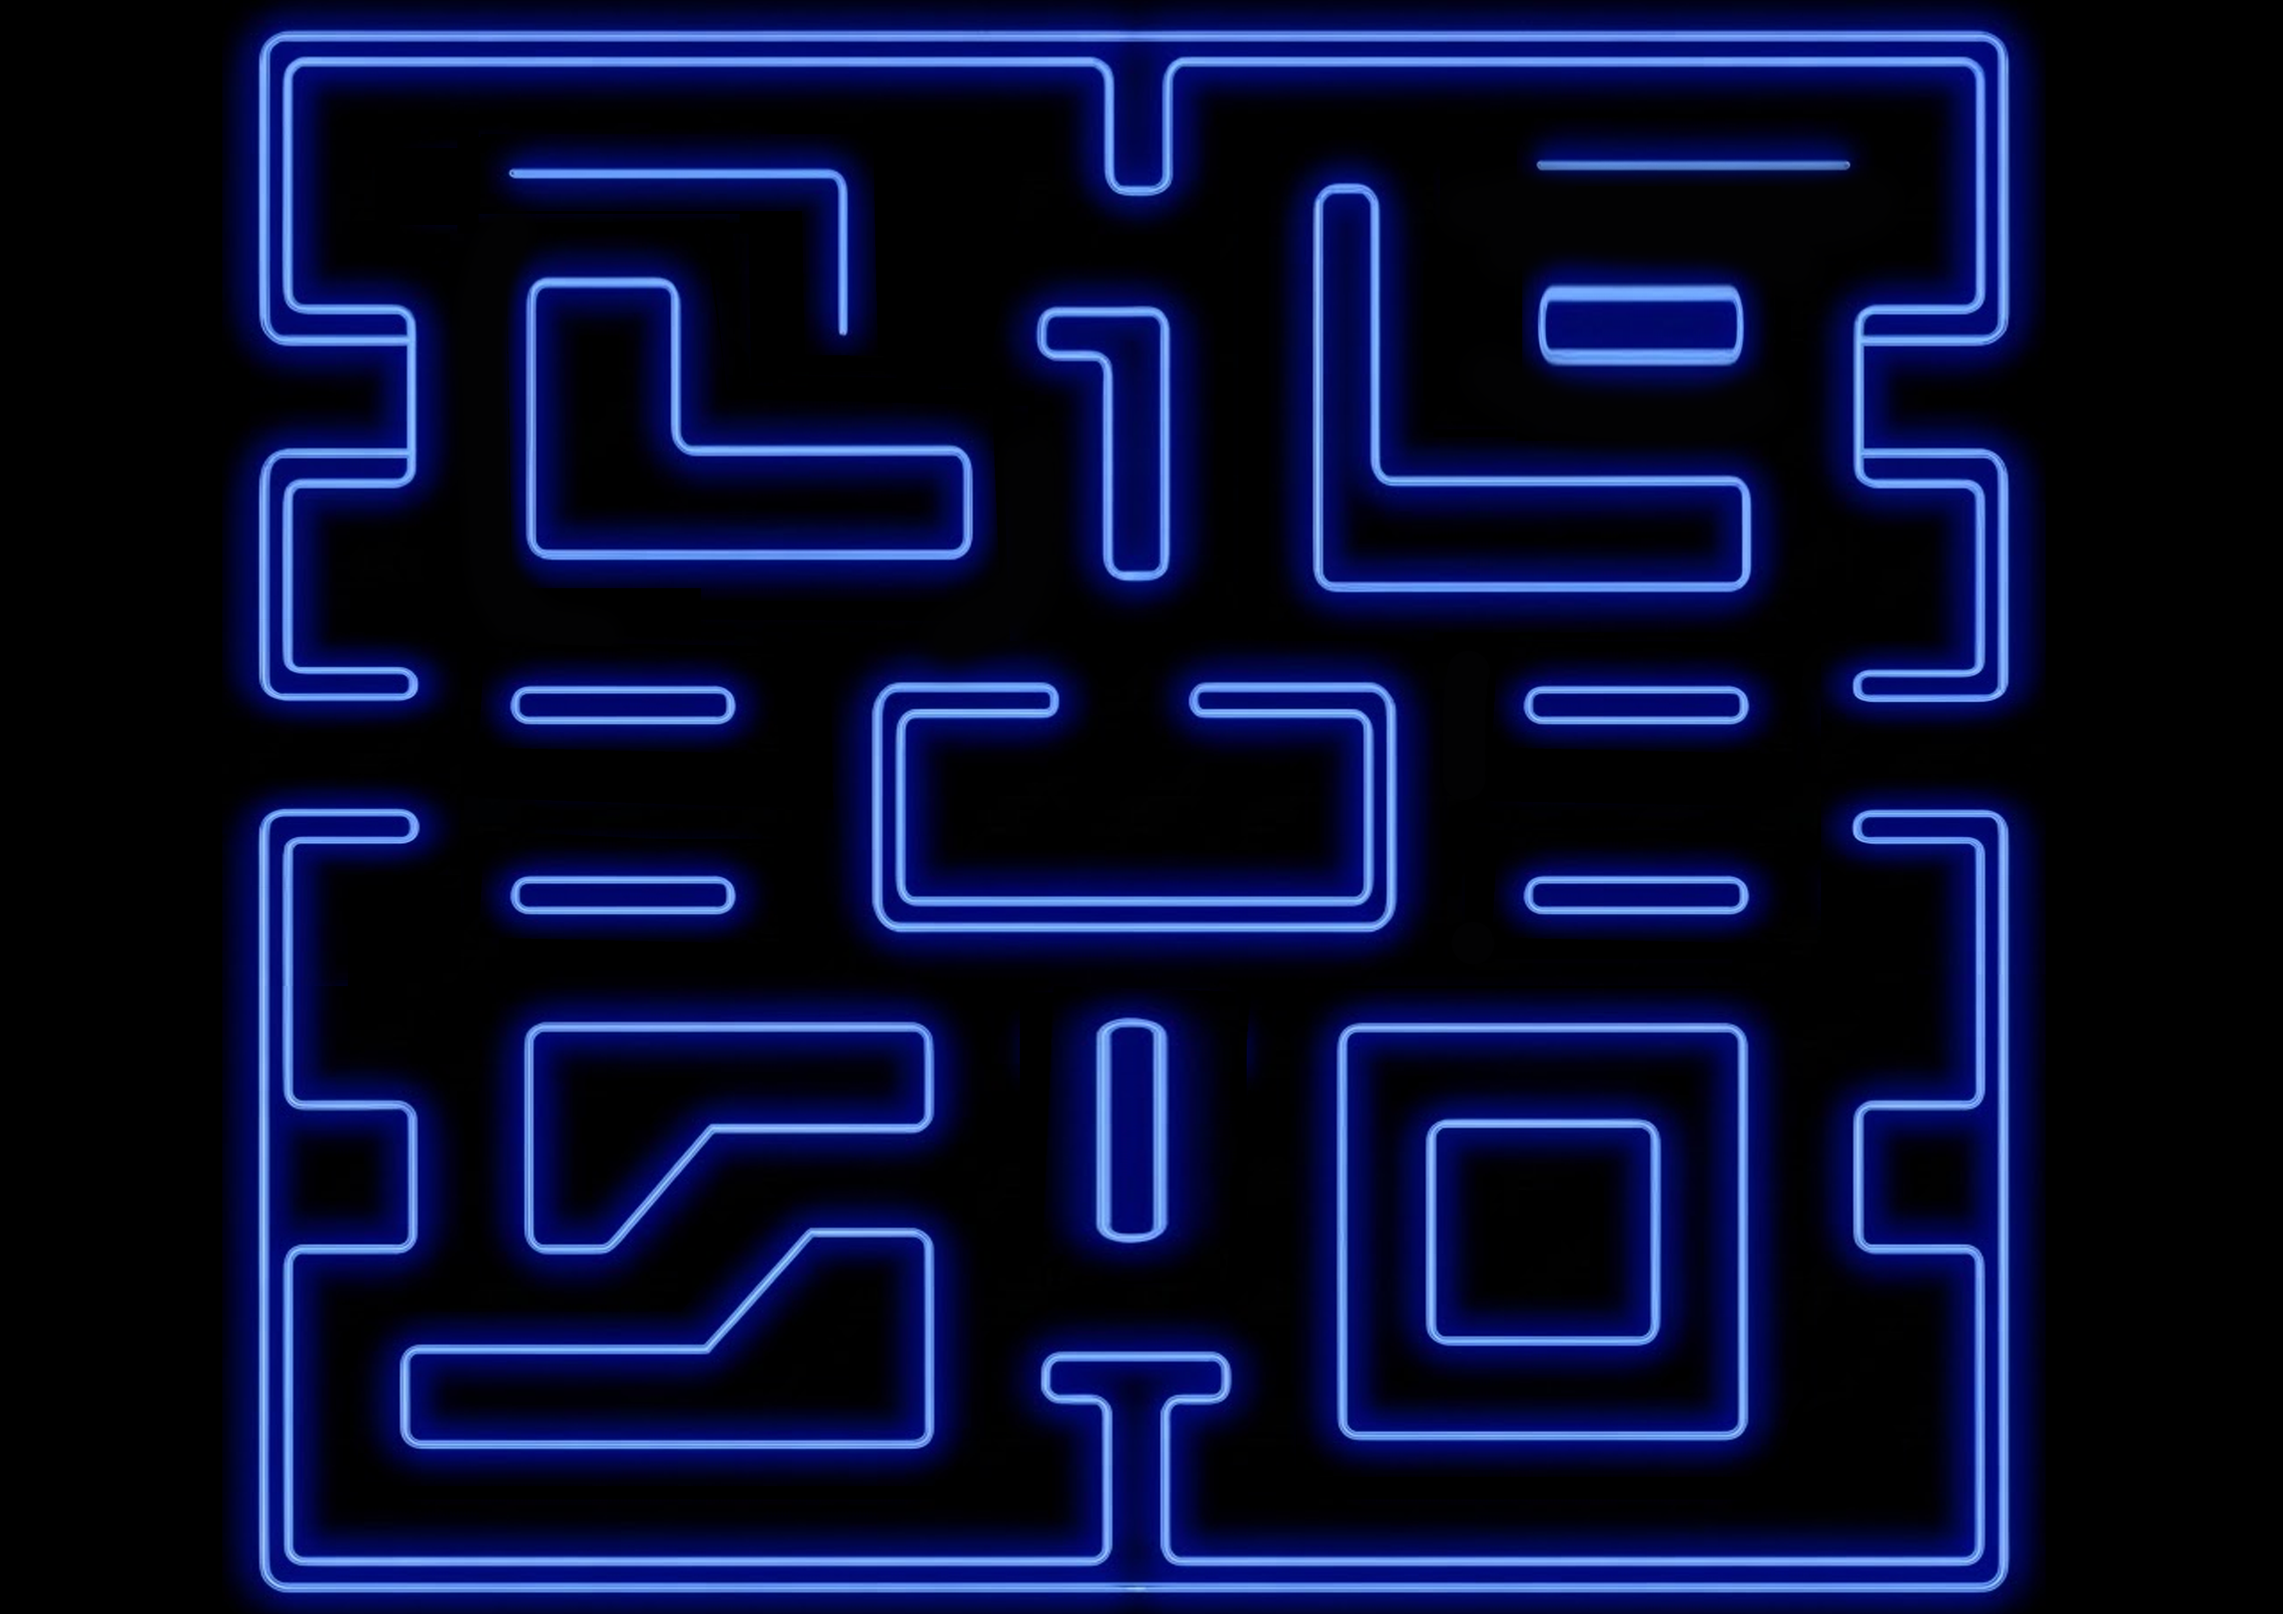
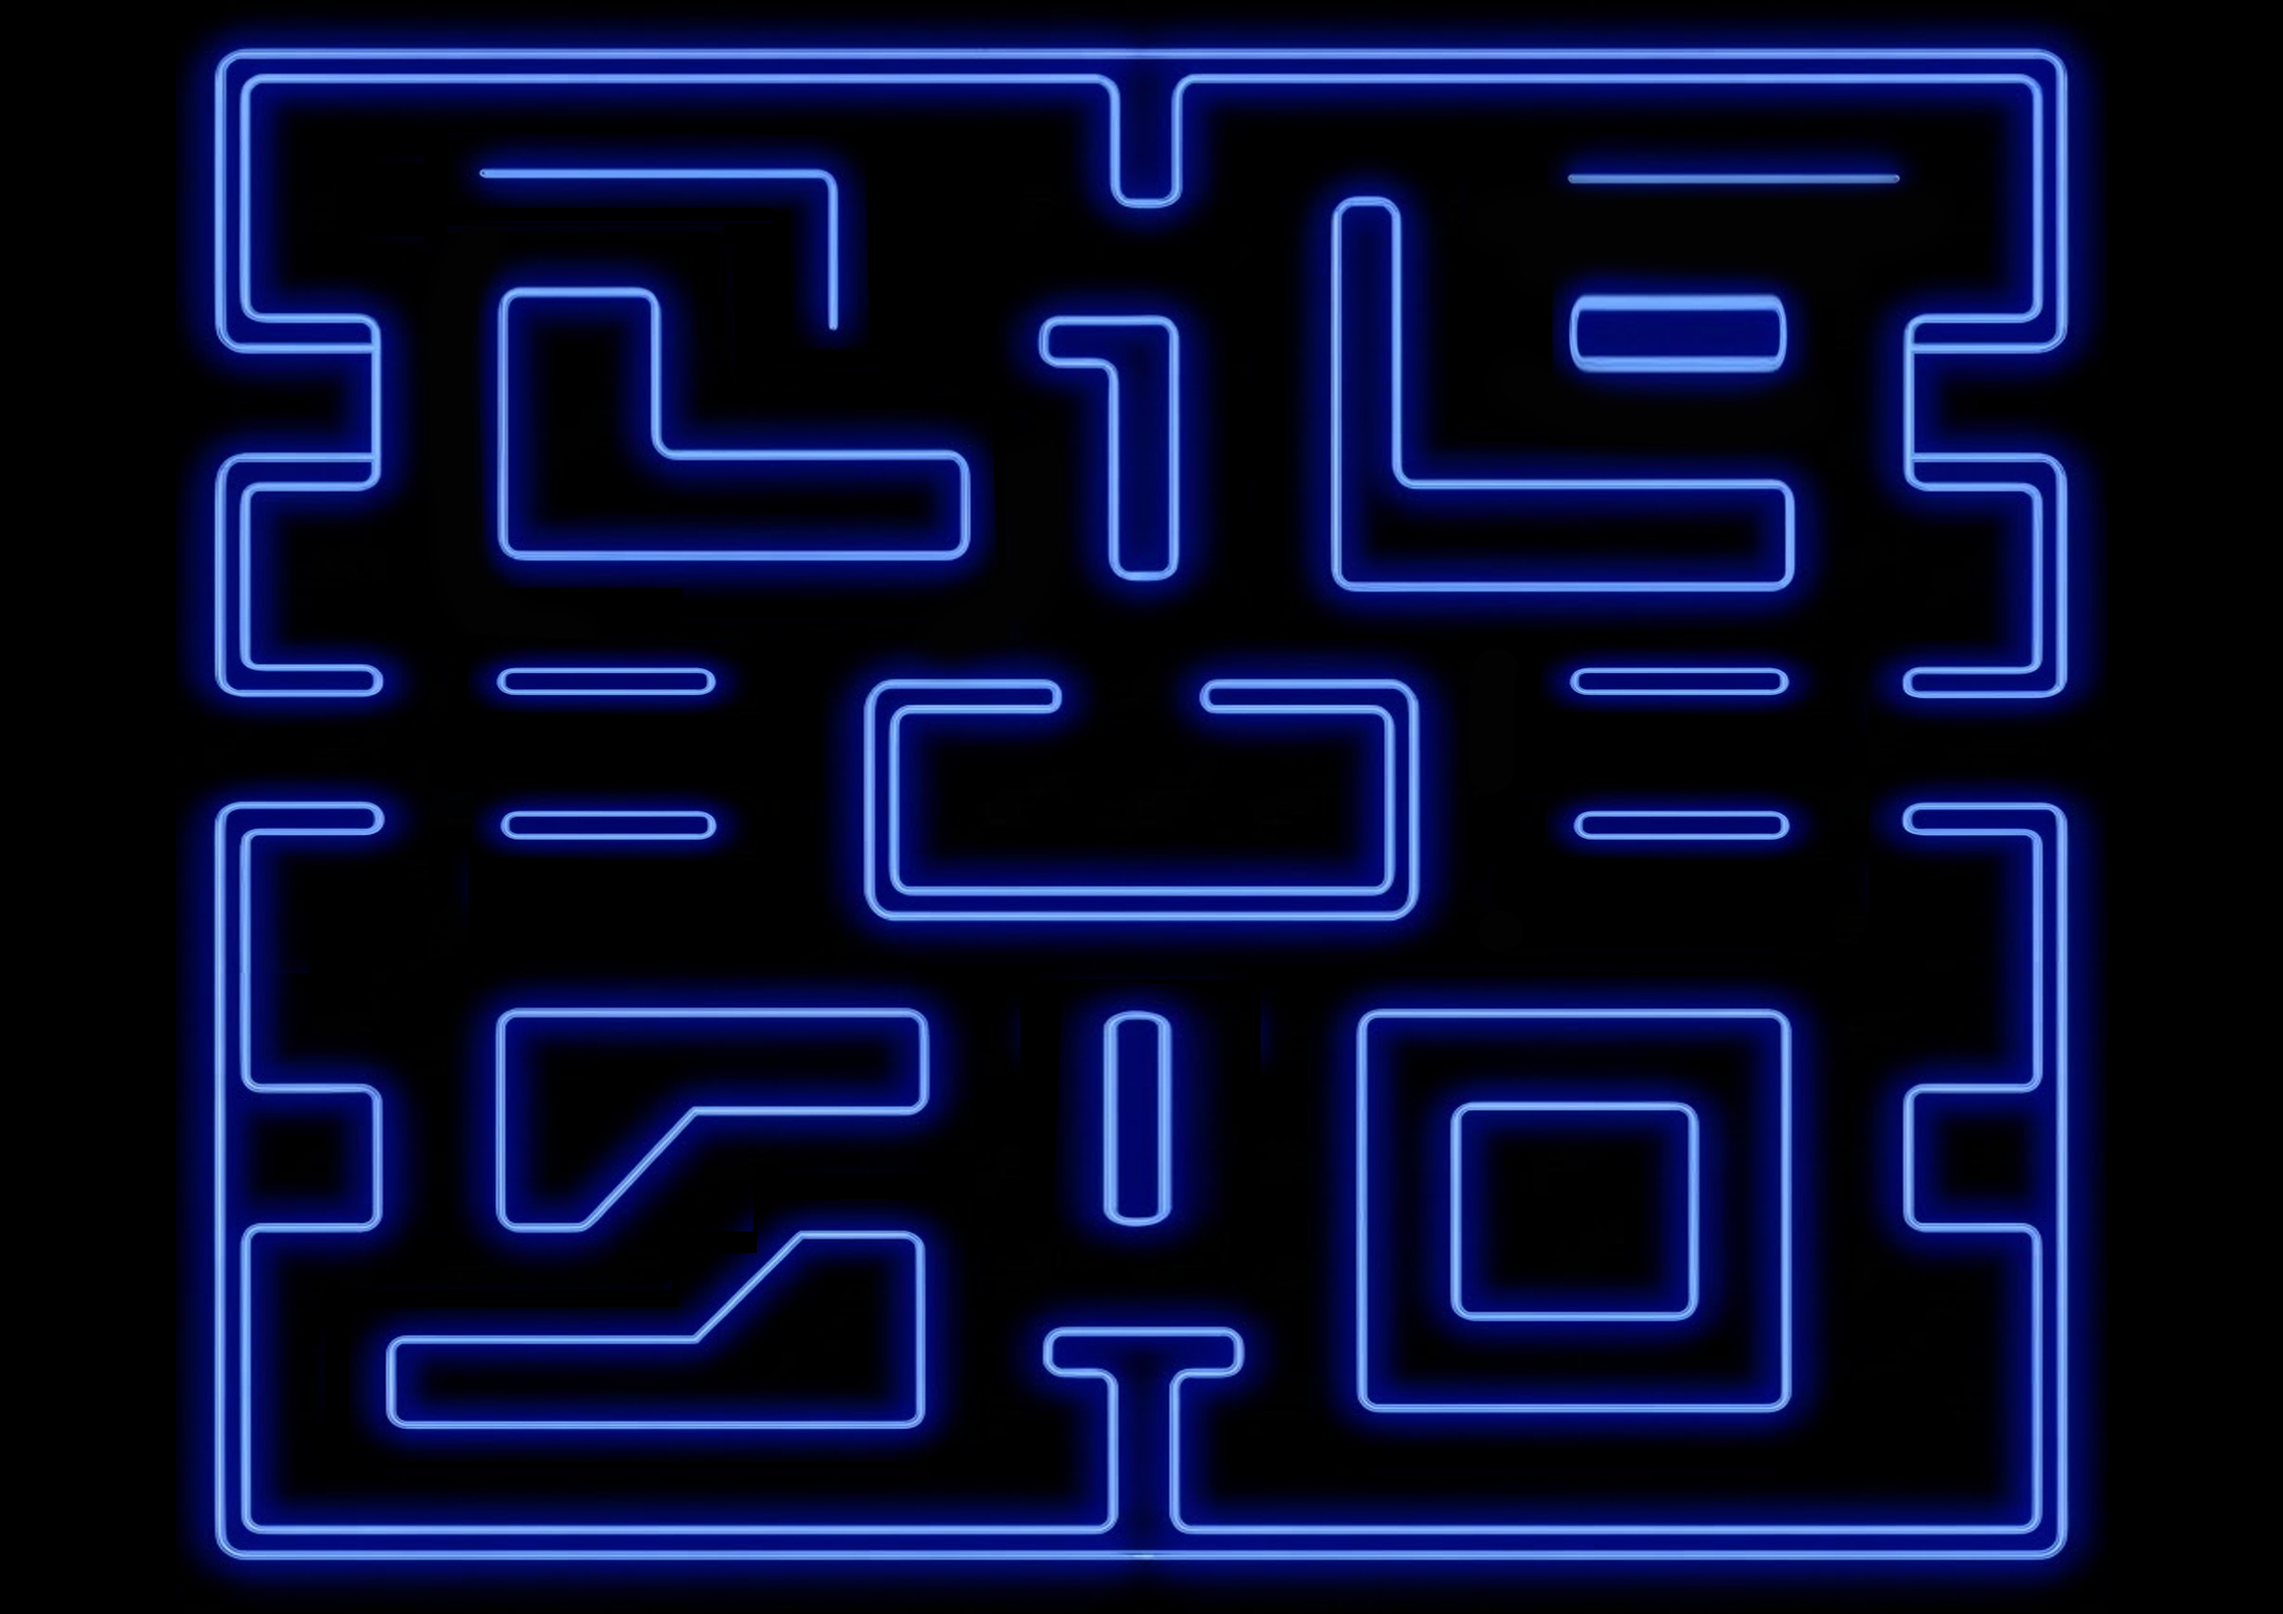
fix(pacman): re-trace 15x14 map + bbox for the new maze image
The latest maze PNG (4961x3508) has the artwork filling almost the whole
canvas with only small symmetric margins, instead of the heavy left-
sided inset of the previous version. The bbox fractions and a handful
of cells in the collisionMap had to be re-measured.

- Re-measured wall bbox: ORIGIN_X 0.0935, ORIGIN_Y 0.0291, SPAN_X
  0.8127, SPAN_Y 0.9381 (was 0.1131, 0.0182, 0.7674, 0.9689 for the
  previous PNG). Now the grid hugs the actual neon walls instead of
  leaking into the old image's right-side black margin.
- Re-traced 15x14 collisionMap (threshold 0.20): 135/135 walkable cells
  reachable from Pac-Man spawn, fully L-R symmetric, ghost-house gate
  intact. The rows of "denser content" shifted slightly (rows 3-4 now
  have the vertical pillar at col 7, row 9 has a 3-tile dotted pattern)
  because the new artwork's chamber positions differ from the previous
  image.
- Pac-Man spawn, ghost house (rows 6-7 cols 6-8 + gate at (5,7)),
  collectibles (1,1)(1,13)(12,1)(12,13) all stay at the same grid
  coordinates because they were positioned by structure, not pixel.

aspect-ratio CSS in styles.css is unchanged (4961/3508 still matches).

diff --git a/public/script.js b/public/script.js
@@ -880,25 +880,25 @@ document.getElementById('btn-close-popup')?.addEventListener('click', () => {
 let DEBUG_MAP = true;
 let EDIT_COLLISION_MAP = DEBUG_MAP;
 
-// 15 cols × 14 rows — the maze image's natural grid (per the comb-fit of the
-// neon walls). At this resolution each corridor is exactly 1 tile wide.
-// Auto-traced by blue density (threshold 0.25): only the thin neon outlines
-// become W, chamber interiors stay P. L-R symmetric. Ghost house at rows 6-7
-// cols 6-8, gate at row 5 col 7. Pac-Man spawn at (11, 7).
+// 15 cols × 14 rows. Re-traced for the latest 4961x3508 maze image (the
+// artwork now fills nearly the whole PNG instead of being inset on the
+// right). Threshold 0.20 keeps walls 1 tile thick, chamber interiors stay
+// walkable. L-R symmetric. Ghost house at rows 6-7 cols 6-8 with the gate
+// cell at (5, 7). Pac-Man spawn at (11, 7).
 const collisionMap = [
   "WWWWWWWWWWWWWWW", // Row 0
   "WCPPPPPPPPPPPCW", // Row 1
-  "WWPWWPPPPPWWPWW", // Row 2
-  "WWPPPPPPPPPPPWW", // Row 3
-  "WPPPPPPPPPPPPPW", // Row 4
-  "WPPPPWWPWWPPPPW", // Row 5
+  "WPWWPPPPPPPWWPW", // Row 2
+  "WPPPPPPWPPPPPPW", // Row 3
+  "WPPPPPPWPPPPPPW", // Row 4
+  "WPPPPPPPPPPPPPW", // Row 5
   "WPPPPWGGGWPPPPW", // Row 6 (ghost house top)
-  "WPWWPWGGGWPWWPW", // Row 7 (ghost house body)
-  "WPPPPPPWPPPPPPW", // Row 8
-  "WPPPPPPPPPPPPPW", // Row 9
-  "WPPPPPPPPPPPPPW", // Row 10
+  "WPPPPWGGGWPPPPW", // Row 7 (ghost house body)
+  "WPPPPPPPPPPPPPW", // Row 8
+  "WPPPPWPWPWPPPPW", // Row 9
+  "WPPPPPPWPPPPPPW", // Row 10
   "WPPPPPPPPPPPPPW", // Row 11 (Pac-Man spawn at c=7)
-  "WCPPPPPPPPPPPCW", // Row 12
+  "WCPPPPPWPPPPPCW", // Row 12
   "WWWWWWWWWWWWWWW"  // Row 13
 ];
 
@@ -982,14 +982,13 @@ function generateMapAndPellets() {
 let debugMouseListenersInitialized = false;
 
 function getGridGeometry(canvas) {
-  // The maze artwork is centered-left in the source PNG (4961x3508), with a
-  // big black margin on the right. These fractions match the bounding box of
-  // the visible neon-blue walls so the grid aligns to the artwork and not to
-  // the empty black canvas area.
-  const ORIGIN_X = 0.1131;
-  const ORIGIN_Y = 0.0182;
-  const SPAN_X   = 0.7674;
-  const SPAN_Y   = 0.9689;
+  // Bounding box of the visible neon-blue walls in the latest 4961x3508 PNG.
+  // The artwork is now mostly centered with small symmetric margins; these
+  // fractions align the grid to the walls rather than the black image edges.
+  const ORIGIN_X = 0.0935;
+  const ORIGIN_Y = 0.0291;
+  const SPAN_X   = 0.8127;
+  const SPAN_Y   = 0.9381;
 
   const cols = collisionMap[0].length;
   const rows = collisionMap.length;
